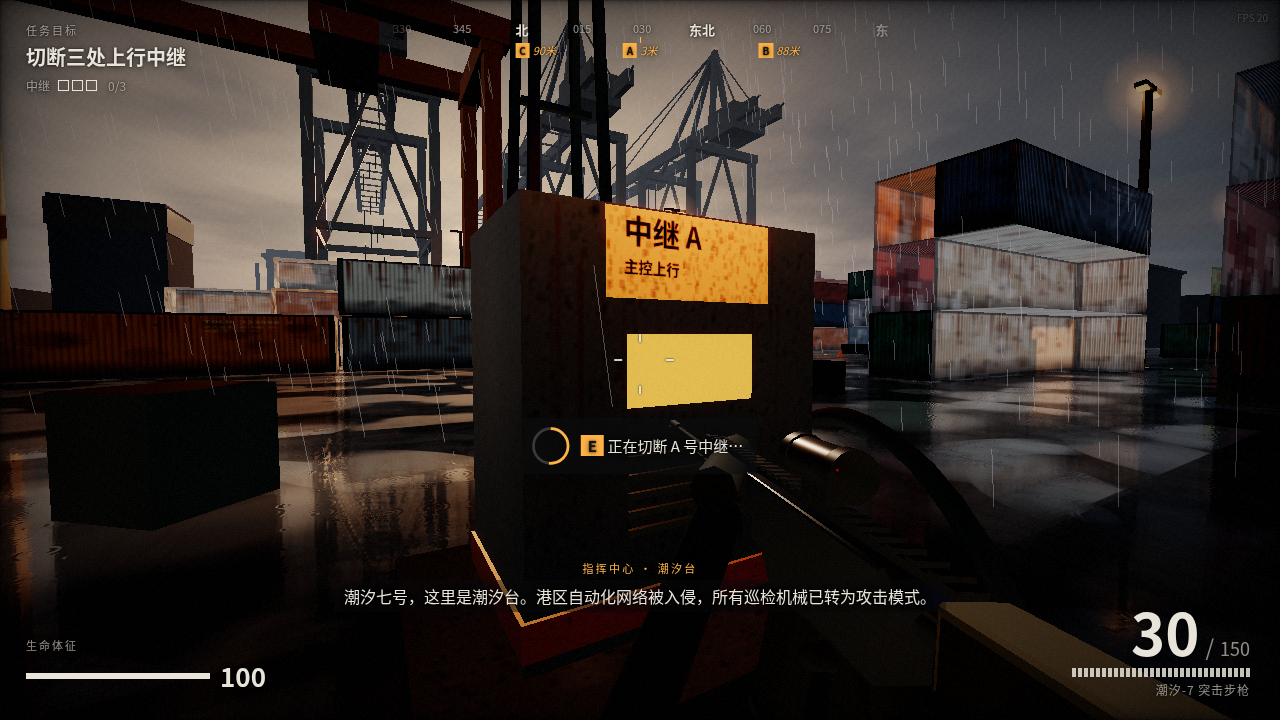
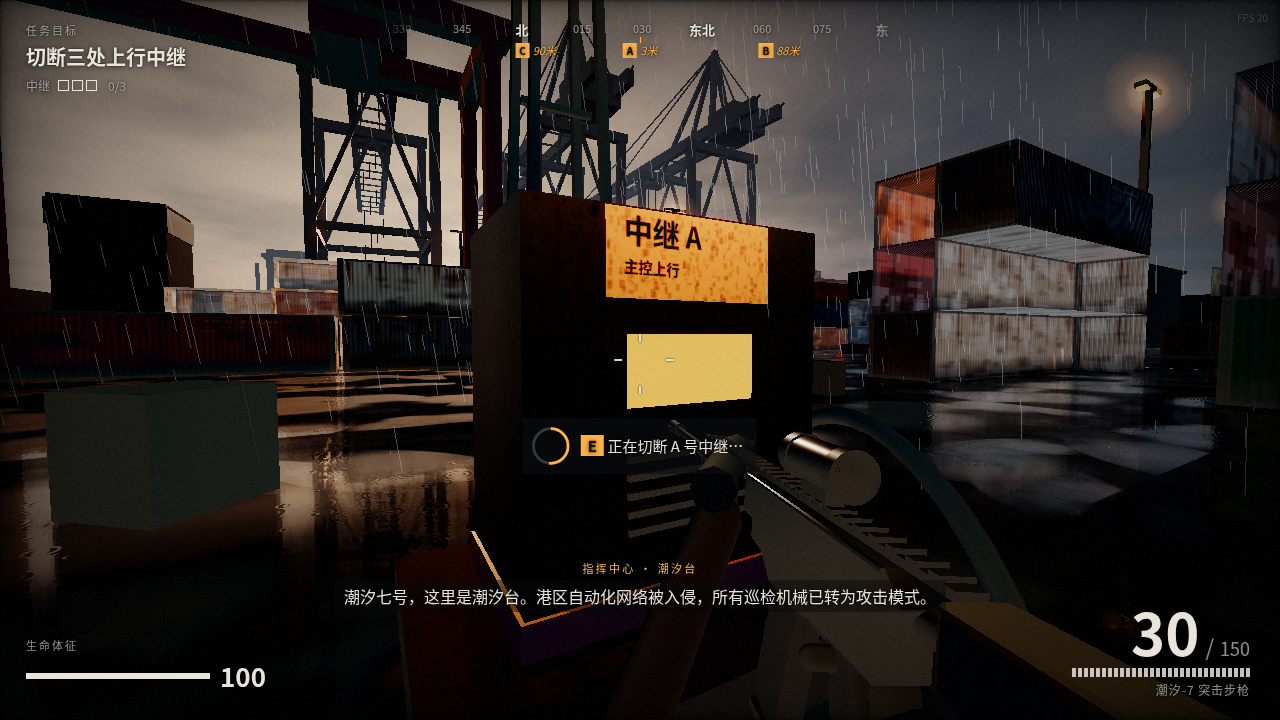
Backlight the avenue with a low dawn sun and moodier grade.
Moves the sun behind the crane line so the main avenue reads backlit
with a wet-ground glare streak, lowers sky fill and desaturates the
grade; refreshes showcase screenshots.

diff --git a/js/game.js b/js/game.js
@@ -48,7 +48,7 @@ export class Game {
     this.renderer.autoClear = false;
     this.scene = new THREE.Scene();
     this.camera = new THREE.PerspectiveCamera(this.fov, innerWidth / innerHeight, 0.05, 1200);
-    this.sunDir = new THREE.Vector3(0.24, 0.09, -1).normalize();
+    this.sunDir = new THREE.Vector3(0.13, 0.085, -1).normalize();
     this.scene.fog = new THREE.FogExp2(0x6c7178, 0.0085);
     this.input = new Input(canvas);
     this.audio = new Audio();
@@ -105,7 +105,7 @@ export class Game {
     sun.shadow.bias = -0.0004; sun.shadow.normalBias = 0.04;
     this.scene.add(sun, sun.target);
     this.sun = sun;
-    this.hemi = new THREE.HemisphereLight(0xa9bad2, 0x5e5448, 2.6);
+    this.hemi = new THREE.HemisphereLight(0xa9bad2, 0x5e5448, 2.0);
     this.scene.add(this.hemi);
   }
   _env() {

diff --git a/js/postfx.js b/js/postfx.js
@@ -211,8 +211,8 @@ export class PostFX {
       shafts: { value: 0.85 },
       lift: { value: new THREE.Vector3(0.006, 0.010, 0.016) },
       gain: { value: new THREE.Vector3(1.03, 1.0, 0.97) },
-      contrast: { value: 1.12 },
-      saturation: { value: 0.82 }
+      contrast: { value: 1.2 },
+      saturation: { value: 0.74 }
     };
     this.compMat = fsMat(COMP, this.uComp);
     this.compMat.toneMapped = false;
